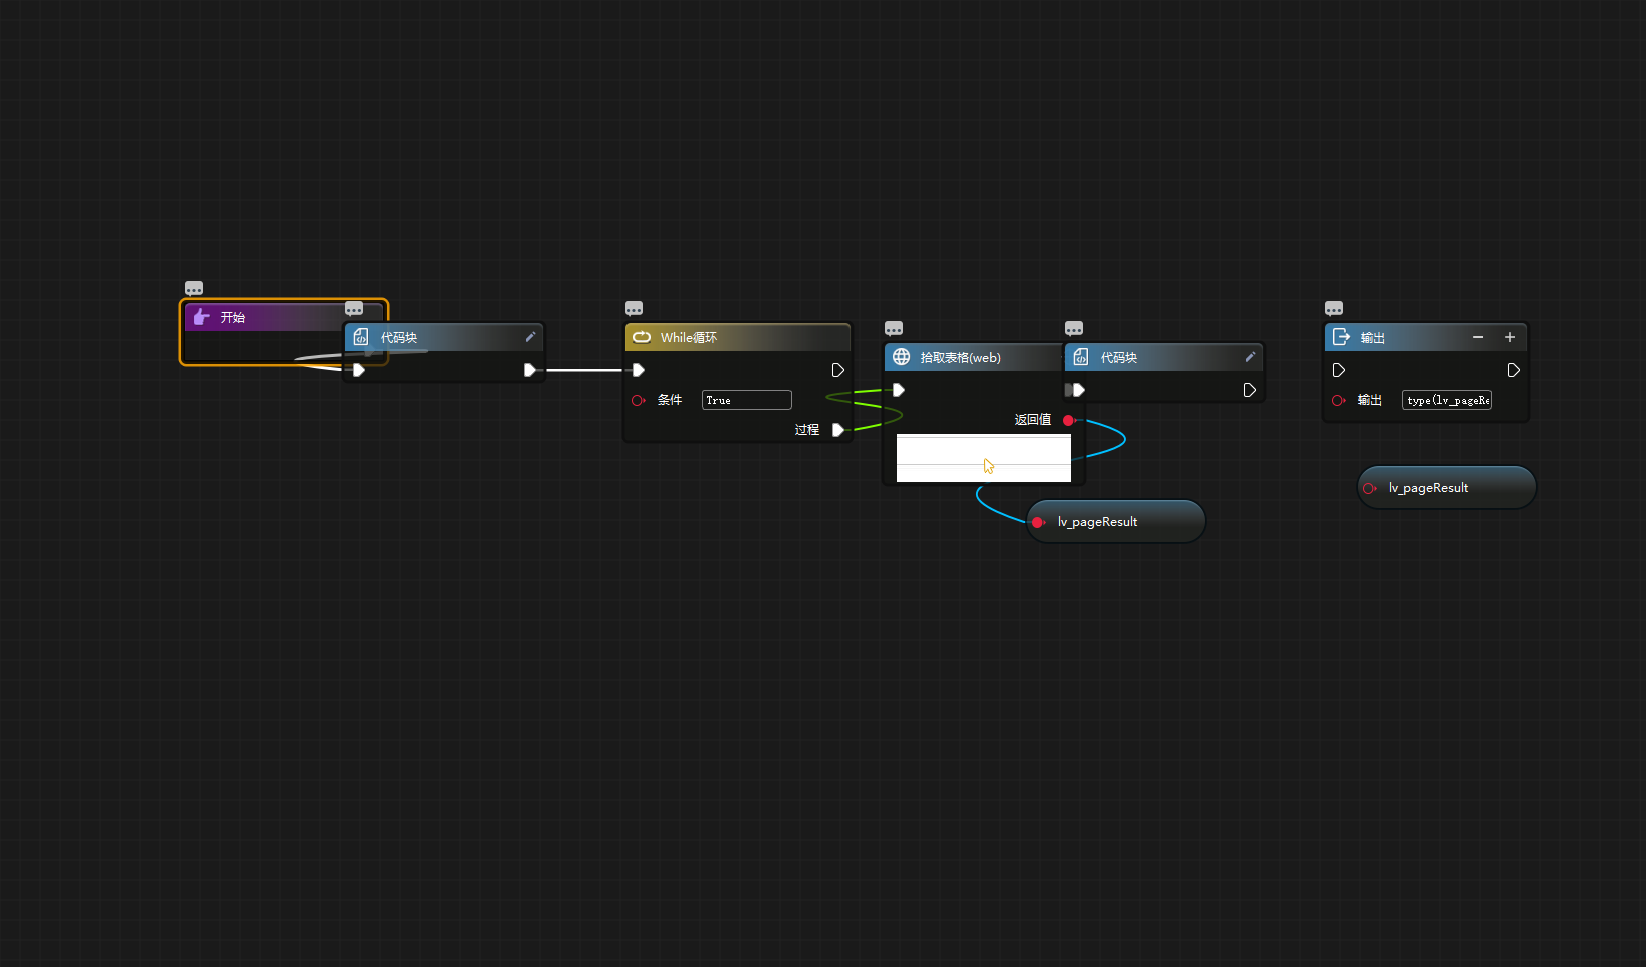
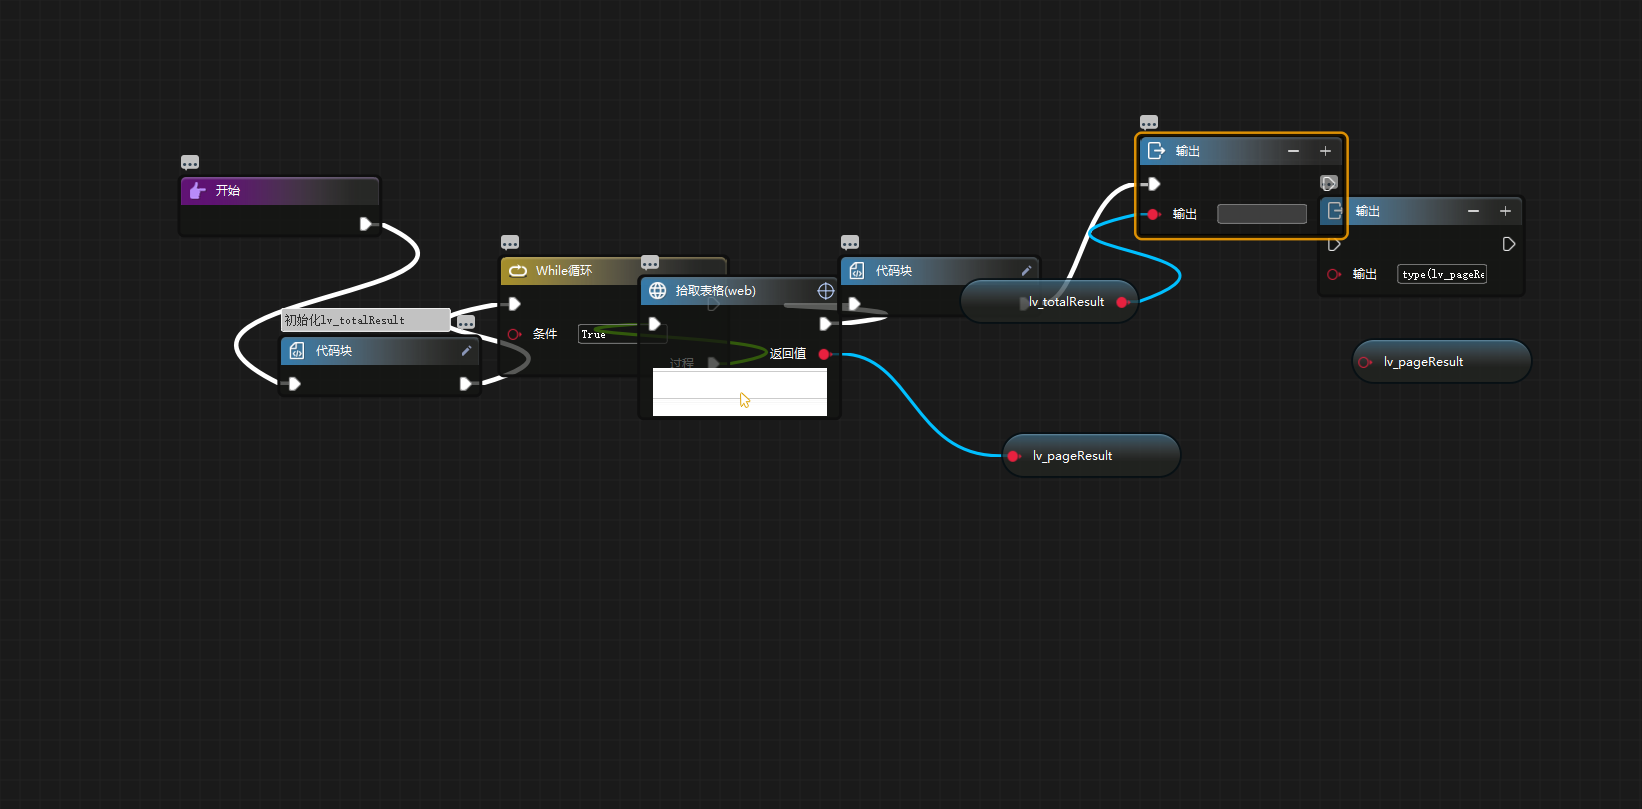
20200508150600

diff --git a/codes/Main_d.py b/codes/Main_d.py
@@ -1,5 +1,5 @@
 # coding=utf-8
-# 编译日期：2020-05-08 15:03:39
+# 编译日期：2020-05-08 15:06:00
 # 版权所有：www.i-search.com.cn
 import time
 import pdb
@@ -12,6 +12,7 @@ import pandas as pd
 import ubpa.ibrowse as ibrowse
 import ubpa.iie as iie
 import ubpa.ikeyboard as ikeyboard
+import ubpa.itools.rpa_str as rpa_str
 
 class YeHongJun_KaoShi:
      
@@ -36,7 +37,7 @@ class YeHongJun_KaoShi:
         lv_totalResult=None
         lv_pageResult=None
         # 代码块
-        self.__logger.debug('Flow:GetData,StepNodeTag:0815030114185,Note:')
+        self.__logger.debug('Flow:GetData,StepNodeTag:0815030114185,Note:初始化lv_totalResult')
         lv_totalResult = pd.DataFrame()
         # While循环
         self.__logger.debug('Flow:GetData,StepNodeTag:0814504953647,Note:')
@@ -46,7 +47,10 @@ class YeHongJun_KaoShi:
             lv_pageResult = iie.get_ie_table(title=r'理财管理',selector=r'#boxTable',waitfor=10)
             # 代码块
             self.__logger.debug('Flow:GetData,StepNodeTag:0815024293883,Note:')
-            
+            lv_totalResult = lv_totalResult.append(lv_pageResult,ignore_index=True)
+            # 输出
+            self.__logger.debug('Flow:GetData,StepNodeTag:0815055220088,Note:')
+            rpa_str.iprints(lv_totalResult)
       
     def LoginCSM(self):
         password='TVlUqIwIyp0eXB=='
@@ -106,6 +110,6 @@ if __name__ == '__main__':
         elif opt in ("-i", "--input"):
             input_arg = arg
     pro = YeHongJun_KaoShi(robot_no=robot_no,proc_no=proc_no,job_no=job_no,input_arg=input_arg)
-    pro.Main()
+    pro.GetData()
     ___logger = ILog(__file__)
     ___logger.debug('Class:Main,ProTag:Quit,Note:Exit')

diff --git a/codes/Main.py b/codes/Main.py
@@ -1,5 +1,5 @@
 # coding=utf-8
-# 编译日期：2020-05-08 15:03:39
+# 编译日期：2020-05-08 15:06:00
 # 版权所有：www.i-search.com.cn
 import time
 import pdb
@@ -12,6 +12,7 @@ import pandas as pd
 import ubpa.ibrowse as ibrowse
 import ubpa.iie as iie
 import ubpa.ikeyboard as ikeyboard
+import ubpa.itools.rpa_str as rpa_str
 
 class YeHongJun_KaoShi:
      
@@ -36,7 +37,7 @@ class YeHongJun_KaoShi:
         lv_totalResult=None
         lv_pageResult=None
         # 代码块
-        self.__logger.debug('Flow:GetData,StepNodeTag:0815030114185,Note:')
+        self.__logger.debug('Flow:GetData,StepNodeTag:0815030114185,Note:初始化lv_totalResult')
         lv_totalResult = pd.DataFrame()
         # While循环
         self.__logger.debug('Flow:GetData,StepNodeTag:0814504953647,Note:')
@@ -46,7 +47,10 @@ class YeHongJun_KaoShi:
             lv_pageResult = iie.get_ie_table(title=r'理财管理',selector=r'#boxTable',waitfor=10)
             # 代码块
             self.__logger.debug('Flow:GetData,StepNodeTag:0815024293883,Note:')
-            
+            lv_totalResult = lv_totalResult.append(lv_pageResult,ignore_index=True)
+            # 输出
+            self.__logger.debug('Flow:GetData,StepNodeTag:0815055220088,Note:')
+            rpa_str.iprints(lv_totalResult)
       
     def LoginCSM(self):
         password='TVlUqIwIyp0eXB=='
@@ -106,4 +110,4 @@ if __name__ == '__main__':
         elif opt in ("-i", "--input"):
             input_arg = arg
     pro = YeHongJun_KaoShi(robot_no=robot_no,proc_no=proc_no,job_no=job_no,input_arg=input_arg)
-    pro.Main()
+    pro.GetData()
